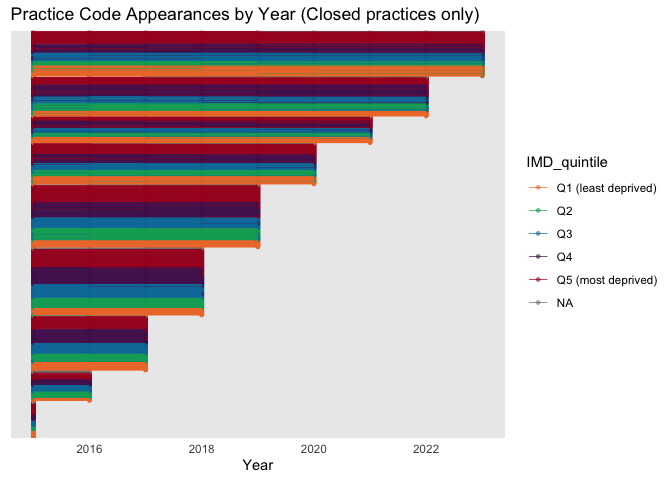
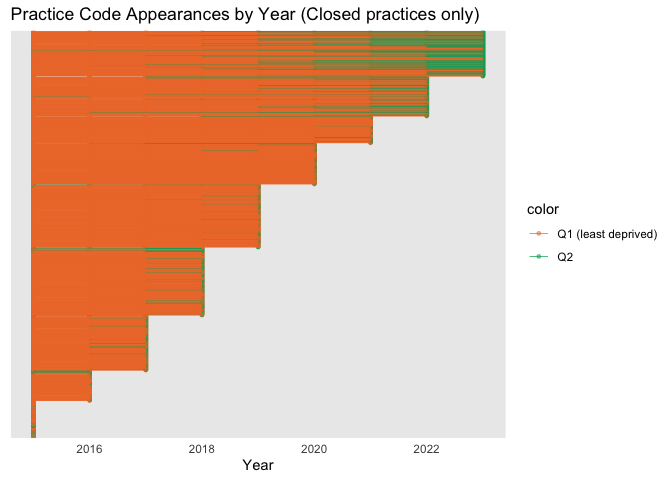
empty practices

diff --git a/analysis/closures/README.md b/analysis/closures/README.md
@@ -192,13 +192,6 @@ plot <- df %>%
 # Convert Practice.Code to a factor with levels in the desired order
 plot$Practice.Code <- factor(plot$Practice.Code, levels = unique(plot$Practice.Code))
 
-# Create the color column based on conditions
-plot$color <- with(plot, ifelse(Number.of.Registered.Patients..Last.Known.Figure. <= 0 |
-  Total.NHS.Payments.to.General.Practice <= 0,
-"red",
-"black"
-))
-
 colors <- c("#EF7A34", "#00A865", "#007AA8", "#531A5C", "#A80026")
 
 # Create the plot
@@ -220,11 +213,6 @@ ggplot(plot, aes(x = Year, y = Practice.Code, group = Practice.Code, color = IMD
 ![](README_files/figure-gfm/unnamed-chunk-1-1.png)<!-- -->
 
 ``` r
-# count NA per year
-# plot %>%
-#   group_by(last_year) %>%
-#   summarise(IMD_NA = is.na(IMD_quintile) %>% sum())
-
 # in each year, count number of last_year and first_year
 table <- plot %>%
   group_by(last_year) %>%
@@ -263,15 +251,6 @@ tended to be in the higher quintiles of deprivation.
 
 As such, patients in deprived areas are more likely to be affected by
 practice closures than those in the most affluent areas.
-
-615 practices have reported 0 registered patients or 0 total payments in
-at least one year.
-
-``` r
-one_year_practices <- practice_years[practice_years$unique_years == 1, ]$Practice.Code %>% unique()
-
-plot$color <- with(plot, ifelse(Practice.Code %in% one_year_practices, "red", color))
-```
 
 # ‘Self-reported’ practices closures
 
@@ -391,7 +370,7 @@ ggplot(plot, aes(x = Year, y = Practice.Code, group = Practice.Code, color = IMD
   scale_color_manual(values = colors, labels = c("Q1 (least deprived)", "Q2", "Q3", "Q4", "Q5 (most deprived)"))
 ```
 
-![](README_files/figure-gfm/unnamed-chunk-5-1.png)<!-- -->
+![](README_files/figure-gfm/unnamed-chunk-4-1.png)<!-- -->
 
 # Closure date
 
@@ -408,7 +387,46 @@ be to use the last year of inclusion in the NHS payments data; however,
 it is often the case that practices that have no patients still receive
 payments and vice versa, and hence are still included in the data.
 
-As such,
+As such, of the practices in the `definitely_closed` dataset, we
+highlight in red years in years either 0 registered patients or 0 total
+payments were reported.
+
+``` r
+# Create the color column based on conditions
+plot$color <- with(plot, ifelse(Number.of.Registered.Patients..Last.Known.Figure. <= 0 |
+  Total.NHS.Payments.to.General.Practice <= 0,
+"red",
+"black"
+))
+
+incomplete <- plot %>%
+  filter(color == "red") %>%
+  pull("Practice.Code") %>%
+  unique() %>%
+  length()
+
+one_year_practices <- practice_years[practice_years$unique_years == 1, ]$Practice.Code %>% unique()
+
+ggplot(plot, aes(x = Year, y = Practice.Code, group = Practice.Code, color = color)) +
+  geom_point(alpha = 0.5, size = 1) +
+  geom_line(alpha = 1, linewidth = 0.25) + # Adjust alpha for transparency if needed
+  labs(
+    x = "Year", y = NULL,
+    title = "Practice Code Appearances by Year (Closed practices only)"
+  ) +
+  theme_minimal() +
+  theme(
+    axis.text.y = element_blank(),
+    axis.ticks.y = element_blank()
+  ) +
+  scale_color_manual(values = colors, labels = c("Q1 (least deprived)", "Q2", "Q3", "Q4", "Q5 (most deprived)"))
+```
+
+![](README_files/figure-gfm/unnamed-chunk-5-1.png)<!-- -->
+
+First, we aim to get a sense of how many practices report ‘incomplete’
+data; 1041 practices have reported 0 registered patients or 0 total
+payments in at least one year.
 
 # [Saunders et al. (2023)](https://www.journalslibrary.nihr.ac.uk/hsdr/PRWQ4012/#/bn1)
 
